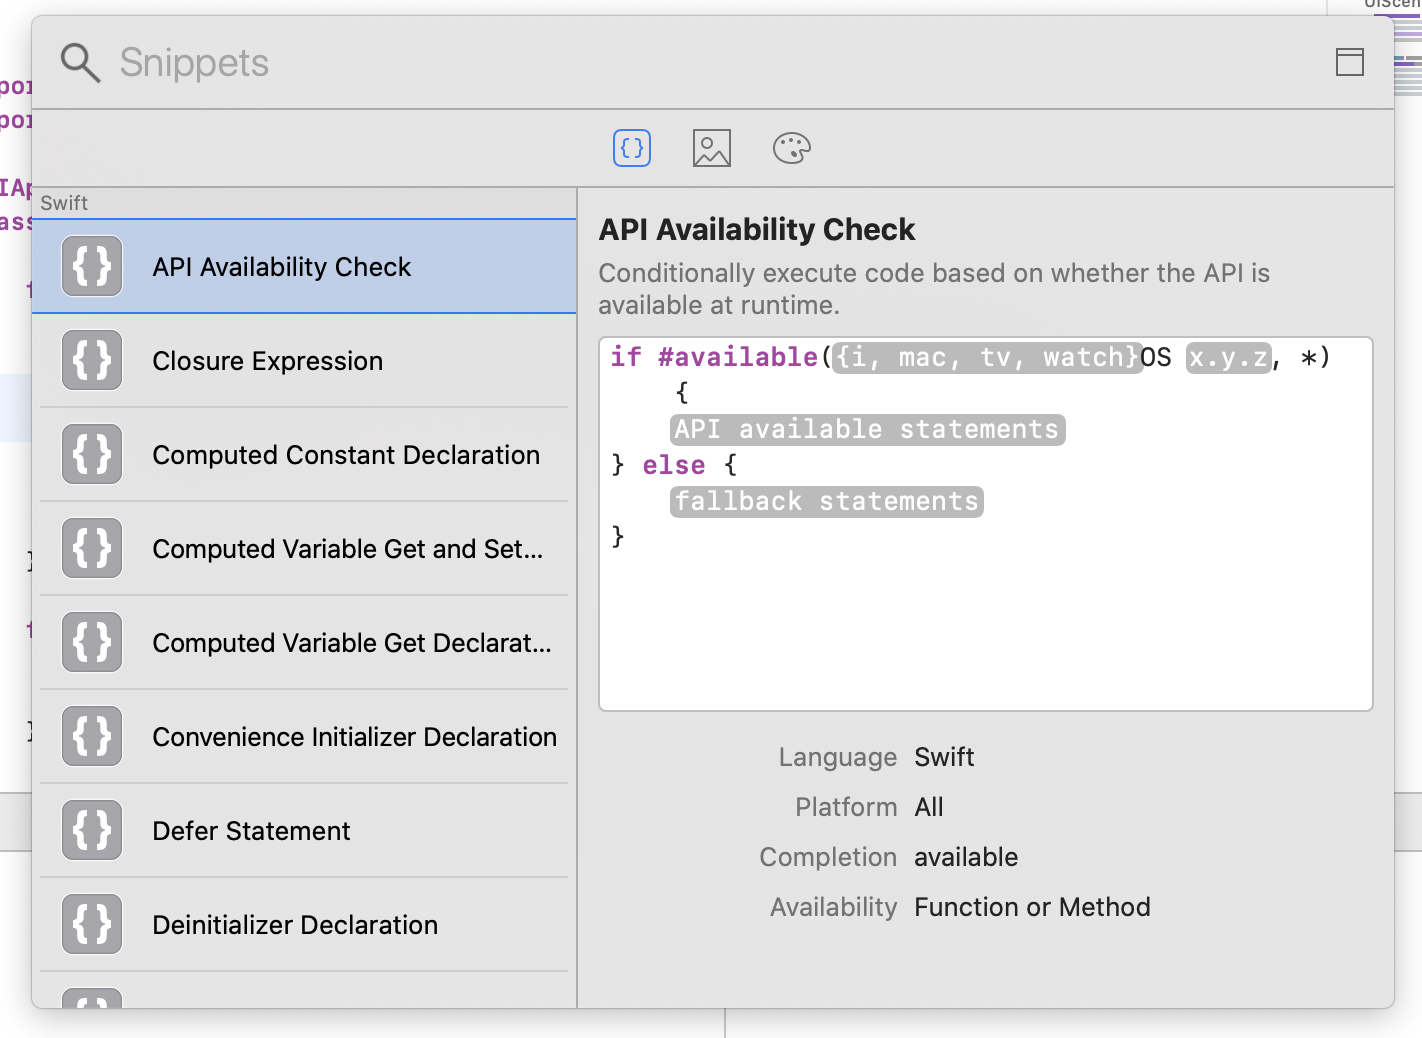
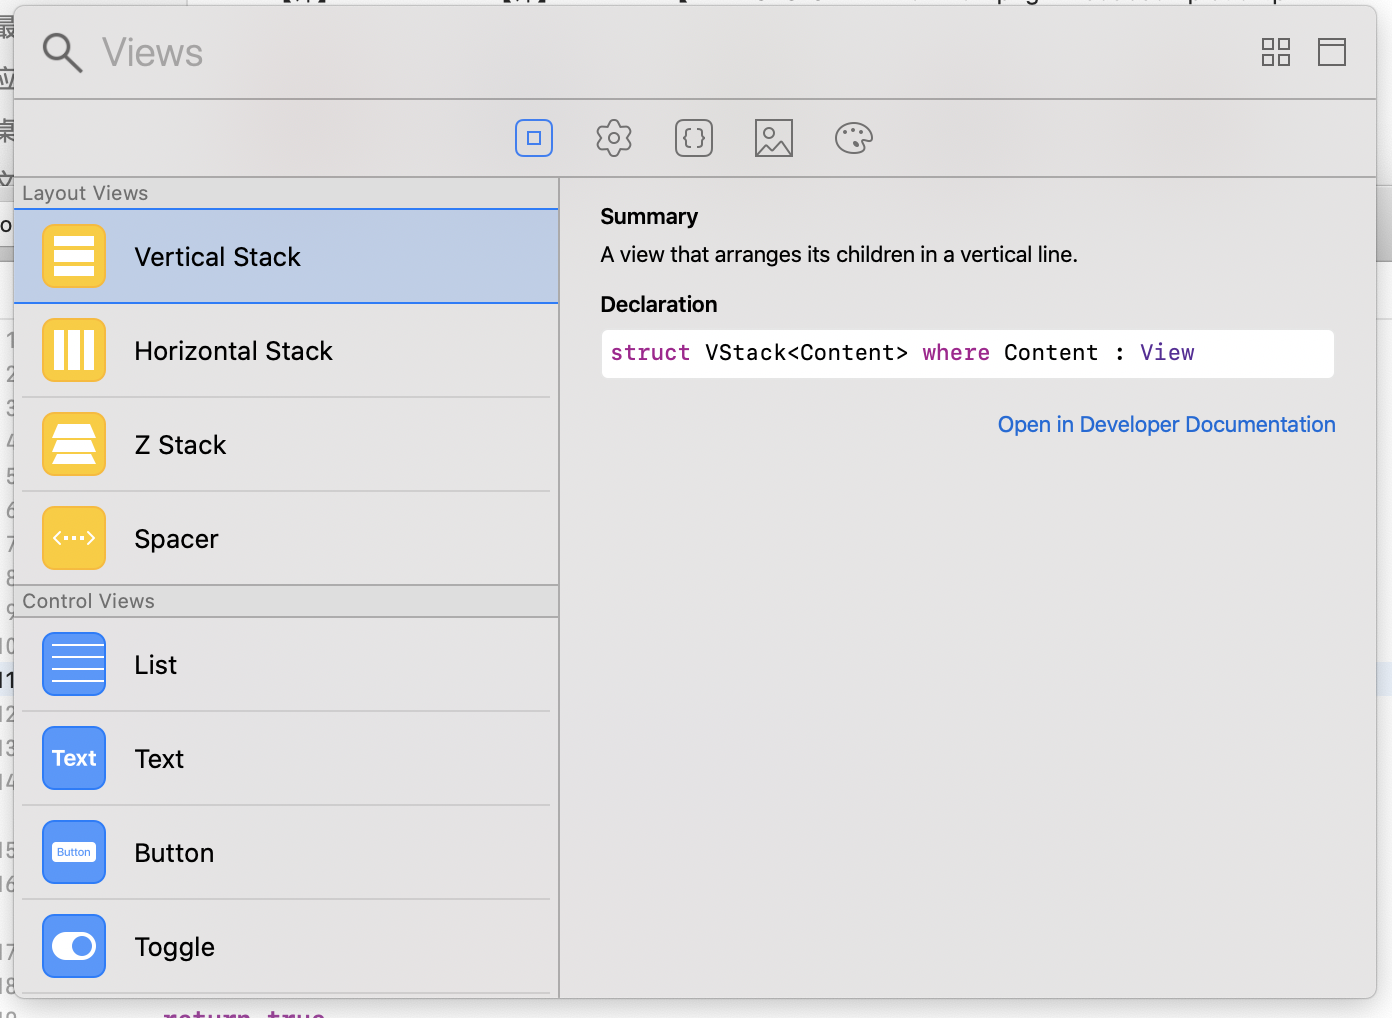
update img

Changed region(s): [[0.0, 0.0, 1.0, 1.0], [0.5251, 0.8222, 0.8032, 0.8831], [0.1236, 0.9745, 0.2162, 1.0]]

diff --git a/WWDC 2019 Tutorials/【WWDC2019 Session】Xcode 11.0新特性.md b/WWDC 2019 Tutorials/【WWDC2019 Session】Xcode 11.0新特性.md
@@ -22,6 +22,19 @@ Xcode 11主要包含如下新特性：
 
 #### Xcode工作流更新
 
+**一、Xcode右上导航变化。**
+
+先来看下Xcode 10右上导航的样子  
+
+![](https://github.com/Lobster-King/AppArticles/raw/master/WWDC%202019%20Tutorials/xcode10navi.png)
+
+再看下Xcode 11导航变化  
+
+![](https://raw.githubusercontent.com/Lobster-King/AppArticles/master/WWDC%202019%20Tutorials/xcode11navi.png)
+
+主要的变更如下：
+
+* Library（代码块Snippets和图片资源预览），由花括号改成了“+”号，并且在弹框中加入了
 
 
 
